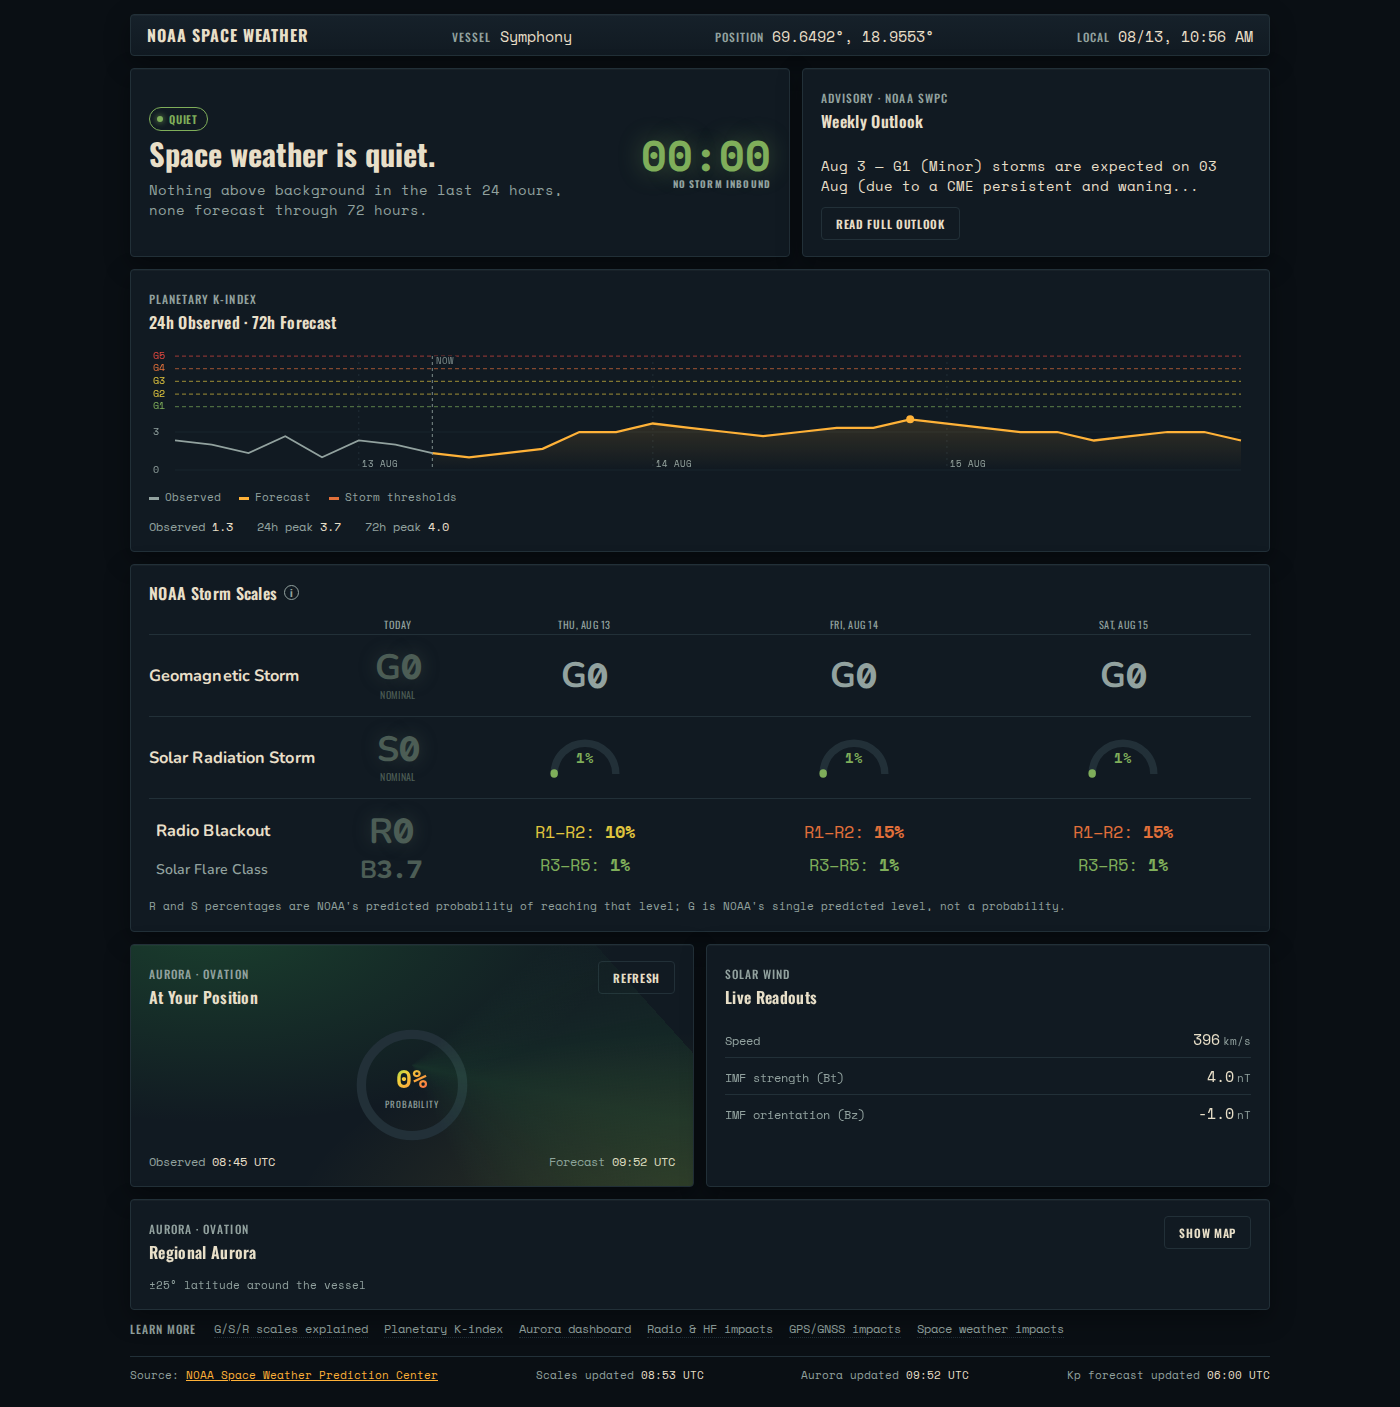
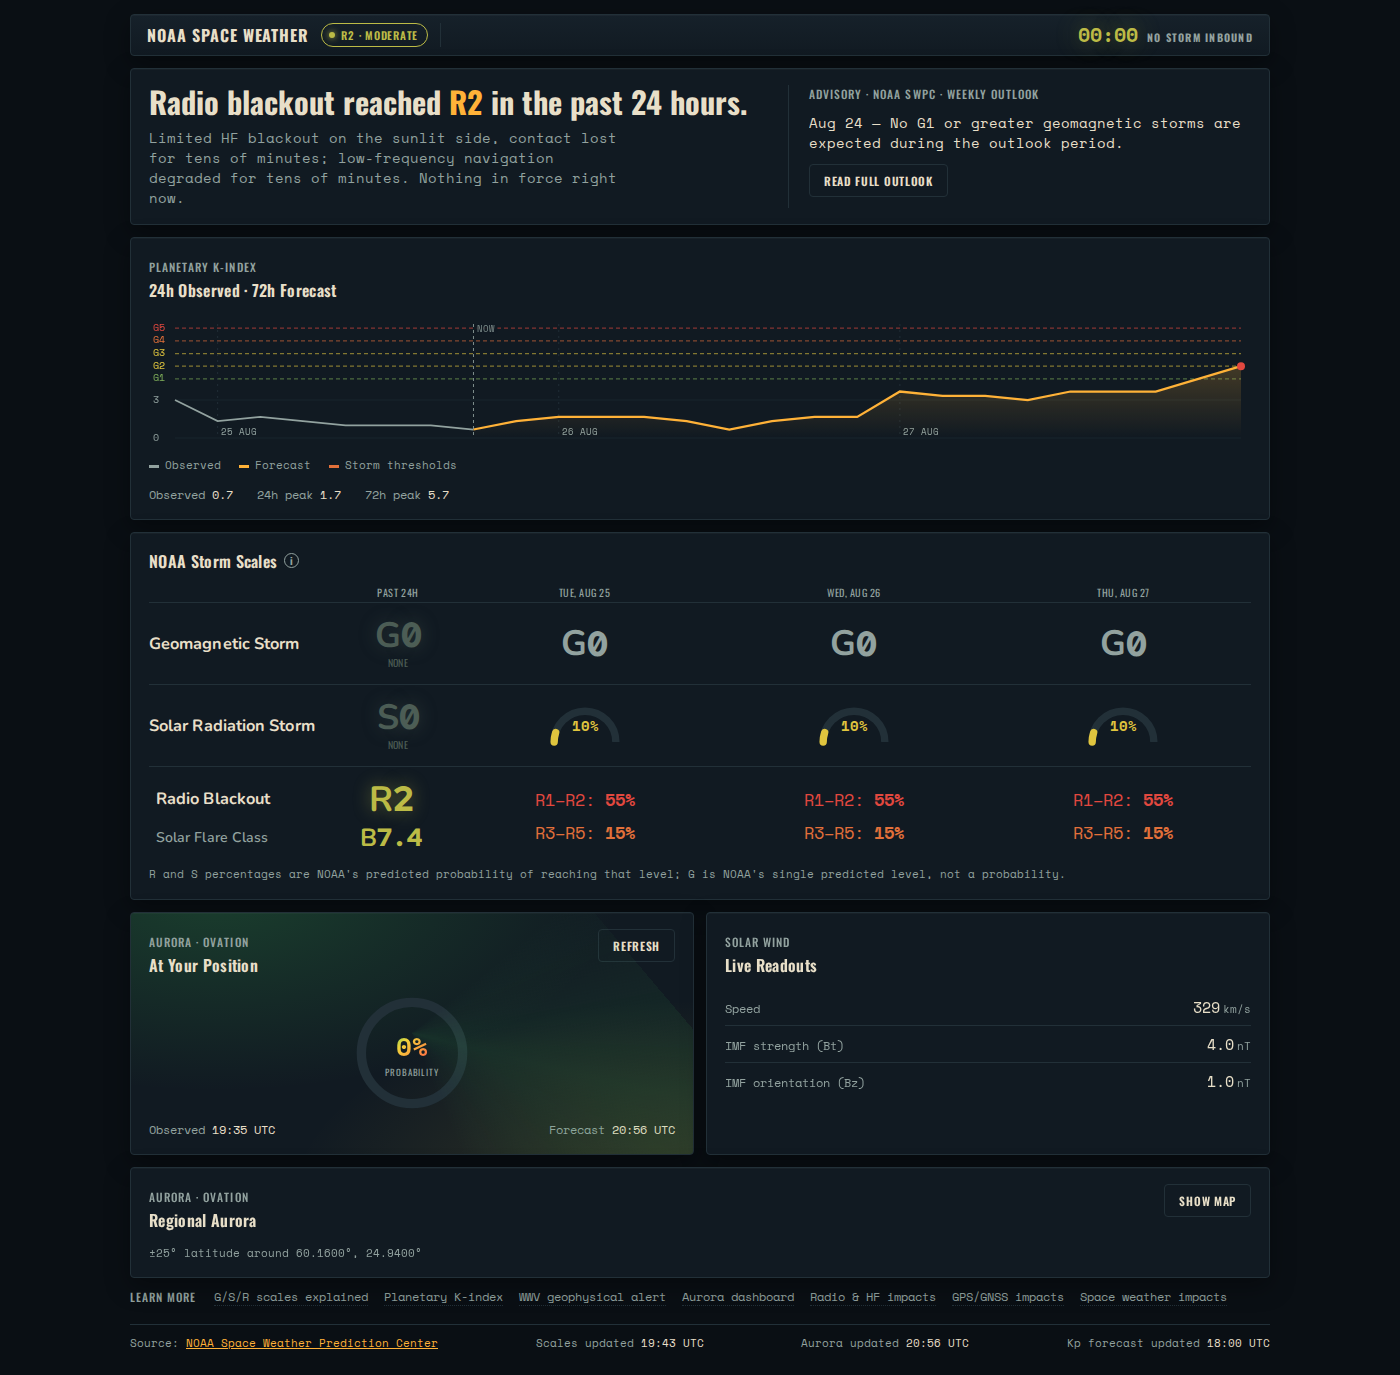
tools: a hero-state contact sheet, and the README shot after #123 and #127 (#128)
`scripts/screenshots/states.mjs` starts the mock itself, reads the state list
off its startup line, walks every state in both themes, and writes a gitignored
`.hero-states/` with the PNGs and an index.html contact sheet. #126 was a banner
nobody had looked at; this is how anyone looks at one before it ships.

`docs/screenshots/webapp.png` is recaptured now that #123 and #127 have landed,
so the README shot carries both: the Past 24h column drawn from the 24-hour
observed maximum, and the hero reporting the R2 that maximum holds.

AGENTS.md now asks a webapp PR to attach the shots its change touches.

diff --git a/CLAUDE.md b/CLAUDE.md
@@ -489,6 +489,26 @@ their labels absorb count badges ("Data" is really "Data1") — so the script mo
 *hard* navigation straight to a deep route still doesn't work, which is why it
 loads `/admin/` first.
 
+## Pictures for a webapp pull request
+
+`scripts/screenshots/states.mjs` is the other half of that package, and the two
+answer different questions. `capture.mjs` shoots a live server and rewrites the
+five PNGs the README ships; `states.mjs` starts `scripts/mock-webapp.mjs`
+itself, walks every state it declares in both themes, and writes a gitignored
+`.hero-states/` with the PNGs and an `index.html` contact sheet. Nothing is
+committed — these are review material for one pull request, and pinning them
+would mean recapturing on every unrelated change to the page.
+
+```shell
+node scripts/screenshots/states.mjs        # --out, --port, --theme
+```
+
+It reads the state list off the mock's own startup line rather than importing
+it, so a state added there appears here with no second edit. The clip is the
+statusbar and the hero tile together, never one without the other: the chip and
+the countdown live in the first and the words in the second, and #126 was
+precisely a disagreement between the two.
+
 ## Releasing
 
 Publishing happens from CI via npm OIDC trusted publishing — tag `vX.Y.Z` and

diff --git a/AGENTS.md b/AGENTS.md
@@ -115,6 +115,10 @@ Stage by path. Never `git add -A`.
   changed. Call out breaking changes explicitly.
 - Reference issues with `closes` / `fixes` / `resolves`
 - Rebase onto `main`; never merge `main` into the branch
+- A PR that changes the webapp carries pictures. `node
+  scripts/screenshots/states.mjs` renders every hero state from the mock in
+  both themes; attach the ones the change touches. Words about a banner are
+  not a picture of it, and #126 is what a wrong banner nobody looked at costs.
 
 If a request arrives that is outside the current PR's topic, say so and propose
 a separate PR rather than quietly folding it in.
